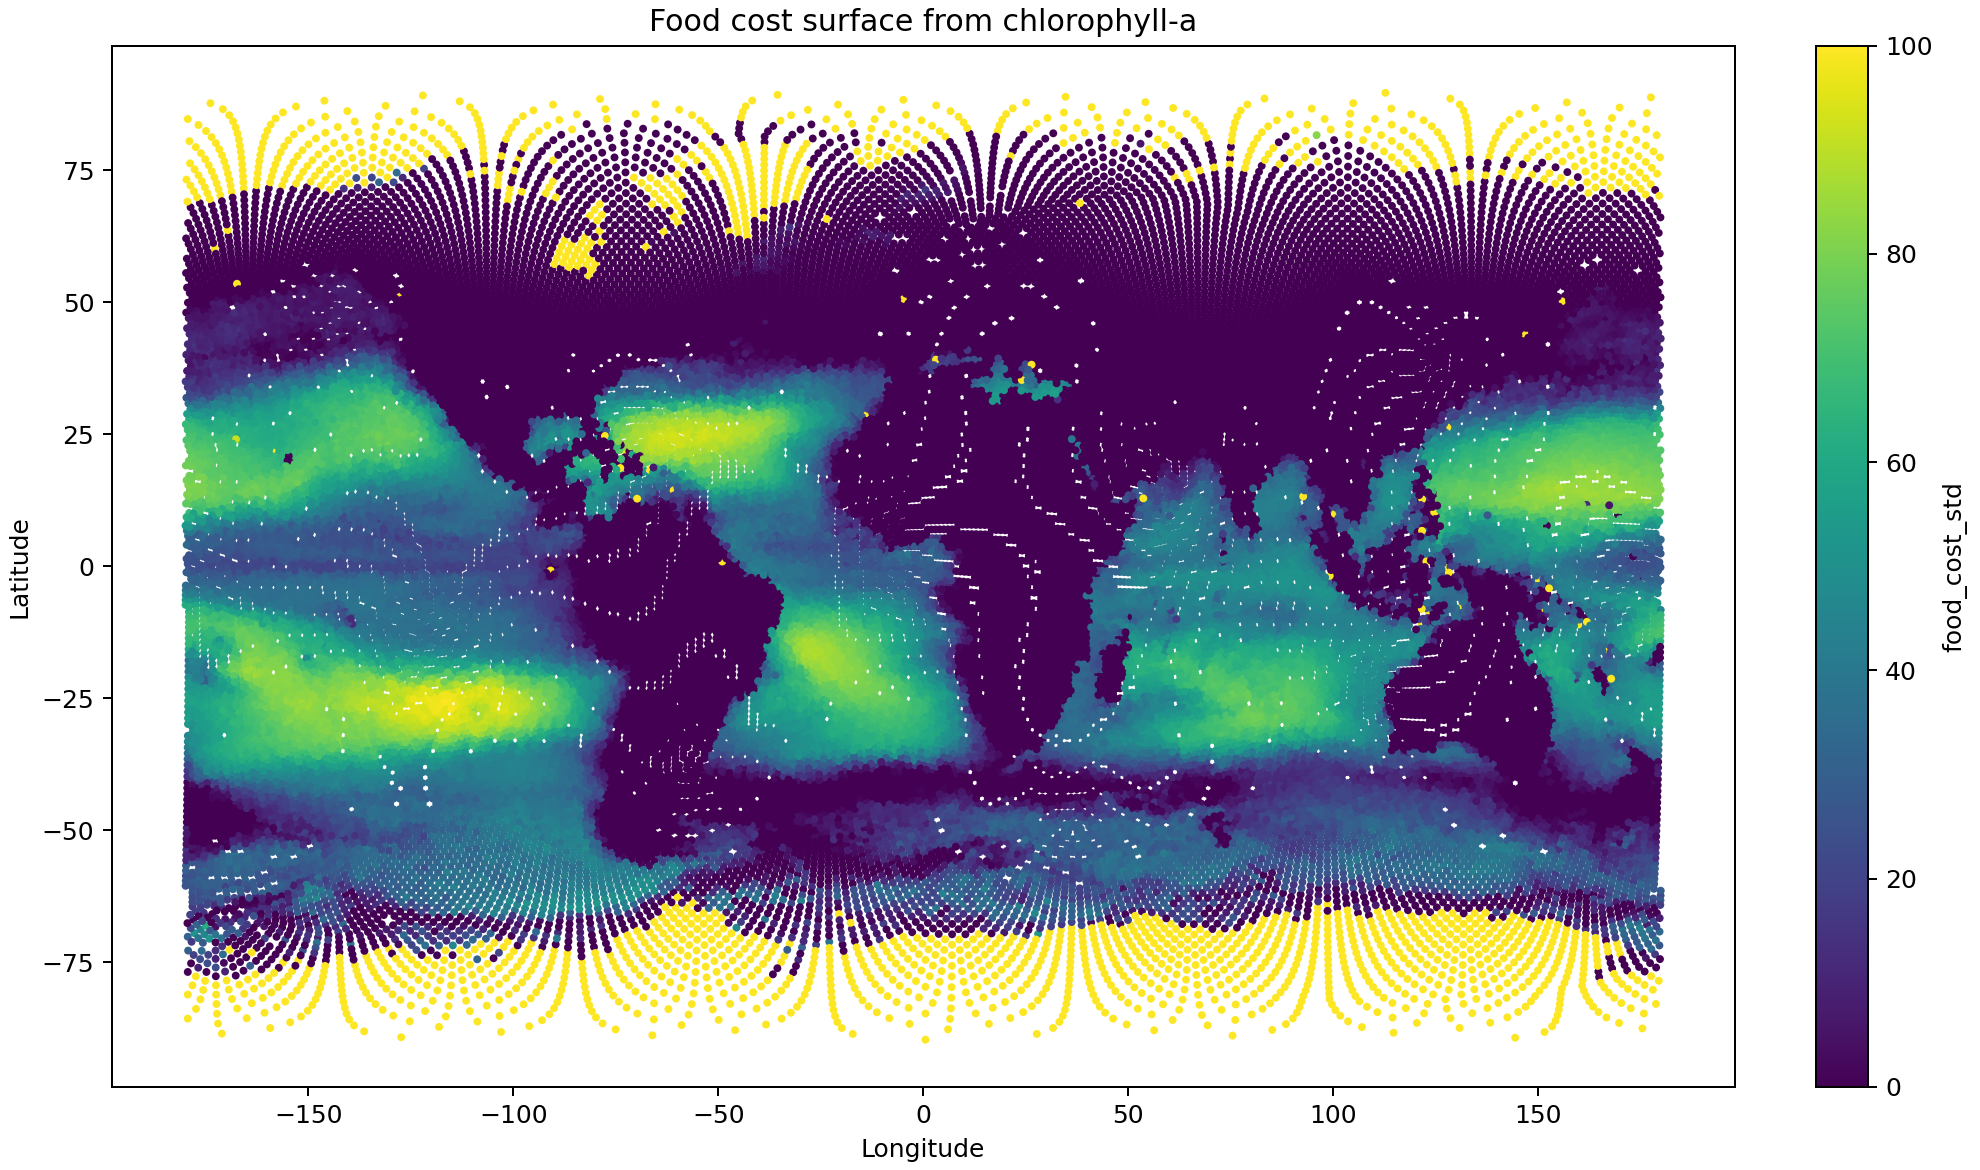
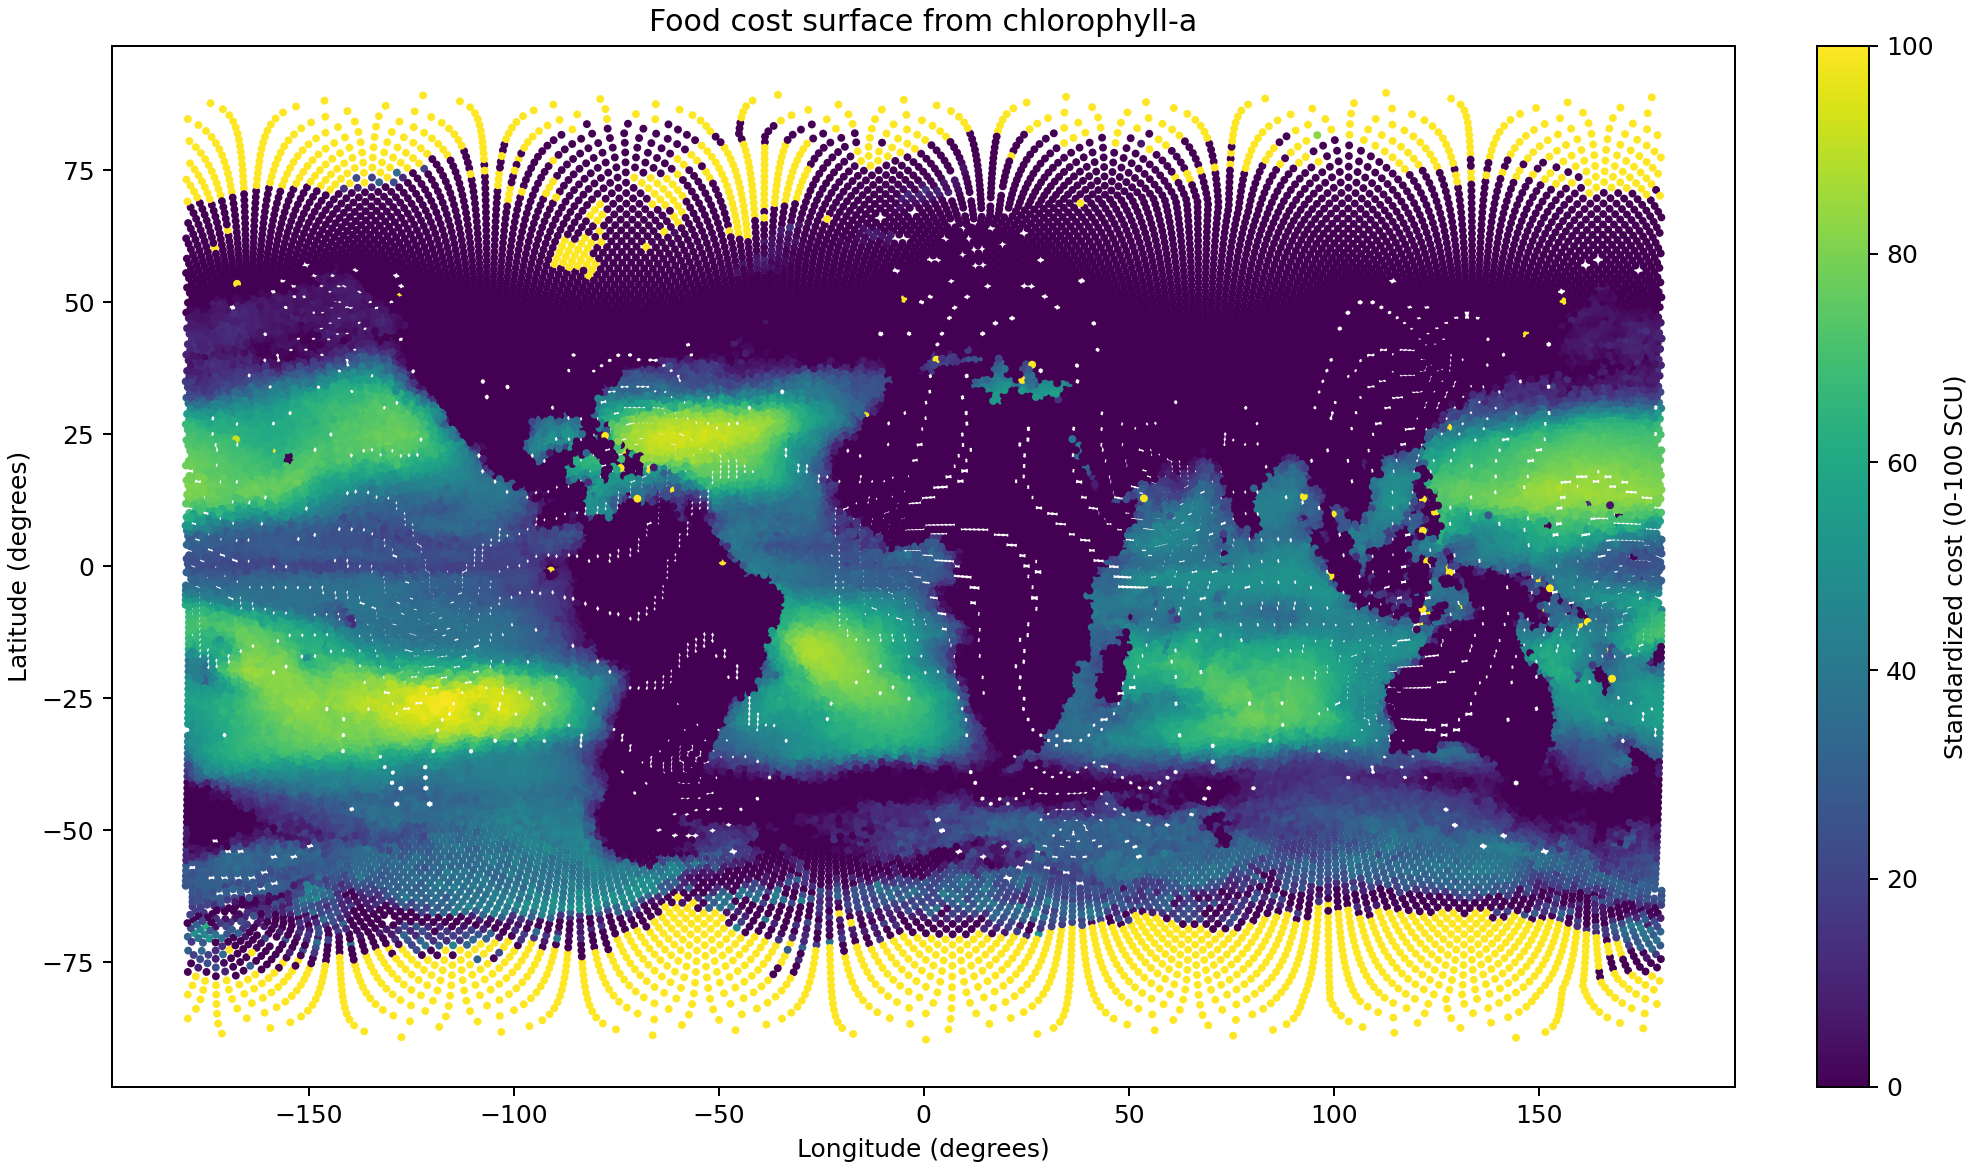
Refine component maps with explicit scales

diff --git a/src/scripts/11_compute_h3_cost_components.py b/src/scripts/11_compute_h3_cost_components.py
@@ -89,58 +89,37 @@ def compute_food_cost(source_chla: pd.Series, floor: float | None = None) -> pd.
     return pd.Series(food_cost, index=source_chla.index)
 
 
-def draw_component_map(df: pd.DataFrame, value_col: str, output_path: Path, title: str, cmap: str = "viridis") -> None:
+def draw_component_map(
+    df: pd.DataFrame,
+    value_col: str,
+    output_path: Path,
+    title: str,
+    colorbar_label: str,
+    cmap: str = "viridis",
+) -> None:
     fig, ax = plt.subplots(figsize=(11, 6.5), constrained_layout=True)
     sc = ax.scatter(df["lon"], df["lat"], c=df[value_col], s=10, cmap=cmap, linewidths=0)
     ax.set_title(title)
-    ax.set_xlabel("Longitude")
-    ax.set_ylabel("Latitude")
+    ax.set_xlabel("Longitude (degrees)")
+    ax.set_ylabel("Latitude (degrees)")
     cbar = fig.colorbar(sc, ax=ax)
-    cbar.set_label(value_col)
+    cbar.set_label(colorbar_label)
     fig.savefig(output_path, dpi=180)
     plt.close(fig)
 
 
-def compute_northward_cumulative_distance(edge_df: pd.DataFrame) -> pd.Series:
-    """Approximate cumulative northward distance by greedily following the most northward outgoing edge.
+def select_northward_edge_distance(edge_df: pd.DataFrame) -> pd.Series:
+    """For each source cell, choose the outgoing edge whose bearing is closest to north.
 
-    For each source cell, choose the outgoing edge with the largest positive latitude gain.
-    Then accumulate northward distance until no further northward move exists.
-    This is a diagnostic map, not the routing model itself.
+    This gives a real edge-distance quantity that is directionally aligned with the
+    diagnostic northward maps for wind.
     """
-    edges = edge_df[["source_h3", "target_h3", "source_lat", "target_lat", "edge_distance_km"]].copy()
-    edges["lat_gain"] = edges["target_lat"] - edges["source_lat"]
-    north_edges = edges[edges["lat_gain"] > 0].copy()
-    north_edges = north_edges.sort_values(["source_h3", "lat_gain", "edge_distance_km"], ascending=[True, False, True])
-    best_north = north_edges.drop_duplicates(subset=["source_h3"], keep="first")
-
-    next_map = dict(zip(best_north["source_h3"], best_north["target_h3"]))
-    dist_map = dict(zip(best_north["source_h3"], best_north["edge_distance_km"]))
-    lat_map = edge_df.groupby("source_h3")["source_lat"].first().to_dict()
-
-    memo: dict[str, float] = {}
-    visiting: set[str] = set()
-
-    def total_distance(cell: str) -> float:
-        if cell in memo:
-            return memo[cell]
-        if cell in visiting:
-            return 0.0
-        visiting.add(cell)
-        if cell not in next_map:
-            value = 0.0
-        else:
-            nxt = next_map[cell]
-            if lat_map.get(nxt, -np.inf) <= lat_map.get(cell, np.inf):
-                value = 0.0
-            else:
-                value = float(dist_map[cell]) + total_distance(nxt)
-        visiting.remove(cell)
-        memo[cell] = value
-        return value
-
-    values = {cell: total_distance(cell) for cell in lat_map}
-    return pd.Series(values)
+    edges = edge_df[["source_h3", "edge_bearing_deg", "edge_distance_km"]].copy()
+    circular_distance_to_north = np.abs(((edges["edge_bearing_deg"] + 180.0) % 360.0) - 180.0)
+    edges["north_offset_deg"] = circular_distance_to_north
+    edges = edges.sort_values(["source_h3", "north_offset_deg", "edge_distance_km"], ascending=[True, True, True])
+    best_north = edges.drop_duplicates(subset=["source_h3"], keep="first")
+    return pd.Series(best_north["edge_distance_km"].to_numpy(), index=best_north["source_h3"].to_numpy())
 
 
 def main() -> None:
@@ -228,9 +207,9 @@ def main() -> None:
     env_map = env[["h3_cell", "lon", "lat", "u10", "v10", "chlor_a"]].copy()
     env_map["parallel_wind_cost_northward_raw"] = northward_parallel_raw
     env_map["crosswind_cost_northward_raw"] = northward_crosswind_raw
-    northward_cumulative_distance = compute_northward_cumulative_distance(out)
+    northward_edge_distance = select_northward_edge_distance(out)
     env_map = env_map.merge(
-        northward_cumulative_distance.rename("northward_cumulative_distance_km"),
+        northward_edge_distance.rename("northward_edge_distance_km"),
         left_on="h3_cell",
         right_index=True,
         how="left",
@@ -238,13 +217,37 @@ def main() -> None:
     env_map["food_cost_raw"] = compute_food_cost(env_map["chlor_a"])
     env_map["parallel_wind_cost_northward_std"] = standardize_to_100(env_map["parallel_wind_cost_northward_raw"])
     env_map["crosswind_cost_northward_std"] = standardize_to_100(env_map["crosswind_cost_northward_raw"])
-    env_map["distance_cost_std"] = standardize_to_100(env_map["northward_cumulative_distance_km"].fillna(0.0))
+    env_map["distance_cost_std"] = standardize_to_100(env_map["northward_edge_distance_km"].fillna(0.0))
     env_map["food_cost_std"] = standardize_to_100(env_map["food_cost_raw"])
 
-    draw_component_map(env_map, "parallel_wind_cost_northward_std", MAP_WIND_PATH, "Parallel wind cost surface for straight northward flight")
-    draw_component_map(env_map, "crosswind_cost_northward_std", MAP_CROSSWIND_PATH, "Crosswind cost surface for straight northward flight")
-    draw_component_map(env_map, "distance_cost_std", MAP_DISTANCE_PATH, "Northward cumulative distance surface")
-    draw_component_map(env_map, "food_cost_std", MAP_FOOD_PATH, "Food cost surface from chlorophyll-a")
+    draw_component_map(
+        env_map,
+        "parallel_wind_cost_northward_std",
+        MAP_WIND_PATH,
+        "Parallel wind cost surface for straight northward flight",
+        "Standardized cost (0-100 SCU)",
+    )
+    draw_component_map(
+        env_map,
+        "crosswind_cost_northward_std",
+        MAP_CROSSWIND_PATH,
+        "Crosswind cost surface for straight northward flight",
+        "Standardized cost (0-100 SCU)",
+    )
+    draw_component_map(
+        env_map,
+        "distance_cost_std",
+        MAP_DISTANCE_PATH,
+        "Distance cost surface from outgoing edge closest to north",
+        "Standardized cost (0-100 SCU), based on edge distance in km",
+    )
+    draw_component_map(
+        env_map,
+        "food_cost_std",
+        MAP_FOOD_PATH,
+        "Food cost surface from chlorophyll-a",
+        "Standardized cost (0-100 SCU)",
+    )
 
     legacy_ref = out["legacy_constant_distance_reference"].iloc[0]
     zero_chla_count = int((env["chlor_a"] <= 0).sum())
@@ -282,7 +285,7 @@ Audit values:
 - standardize each component with the agreed P99-based scaling philosophy
 - additionally produce four cell-level component maps for transparency
 - for the two wind component maps, assume a bird flying in a straight northward direction everywhere
-- for the distance map, construct a diagnostic northward cumulative-distance surface by greedily following the most northward outgoing edge from each cell until no further northward move exists
+- for the distance map, assign to each cell the true distance of the outgoing edge whose bearing is closest to north
 
 ## Key formulas used
 - movement direction comes from the edge bearing for the edge-level table
@@ -290,7 +293,7 @@ Audit values:
 - raw parallel wind cost = distance from `P99(windsupport)`
 - raw crosswind cost = magnitude of the wind component perpendicular to movement
 - raw distance cost = true H3 edge distance in km for the edge table
-- diagnostic distance map = cumulative northward path length obtained by repeatedly following the outgoing edge with the largest positive latitude gain
+- diagnostic distance map = true distance of the outgoing edge whose bearing is closest to north, one value per source cell
 - raw food cost = `|log(chla) + 1|` after capping high-productivity cells and flooring non-positive chlorophyll values for numerical stability
 - standardized component cost = `100 * raw_component / P99(raw_component)`
 
@@ -331,11 +334,11 @@ The four maps are also useful because they separate two different views of the m
 - cell-level component surfaces used for intuitive inspection
 
 For the wind maps, the northward-flight assumption is only for visualizing the directional wind components as a global surface. The real graph still uses each actual edge bearing.
-For the distance map, the northward cumulative surface is also diagnostic rather than part of the routing graph itself. It is meant to make the map set conceptually parallel, not to replace the true edge-distance component used in the model.
+For the distance map, each cell is assigned the true distance of its outgoing edge closest to north. This is also diagnostic rather than part of the routing graph itself, but it is a real edge quantity rather than an artificial cumulative construction.
 
 ## Points to watch
 - the distance component in the routing model still represents true H3 edge length, which is an intentional refinement relative to the legacy constant-per-step distance term
-- the mapped northward cumulative distance surface is a separate diagnostic layer for interpretability
+- the mapped northward distance surface is a separate diagnostic layer for interpretability, based on a real outgoing northward edge per cell
 - the legacy constant distance reference extracted from the standardized wind term is **{legacy_ref:.3f}**, which provides a direct bridge back to the earlier formulation
 - the visual wind maps are diagnostic surfaces, not replacements for the directional edge-level calculations
 

diff --git a/results/reports/11_compute-h3-cost-components.md b/results/reports/11_compute-h3-cost-components.md
@@ -31,7 +31,7 @@ Audit values:
 - standardize each component with the agreed P99-based scaling philosophy
 - additionally produce four cell-level component maps for transparency
 - for the two wind component maps, assume a bird flying in a straight northward direction everywhere
-- for the distance map, construct a diagnostic northward cumulative-distance surface by greedily following the most northward outgoing edge from each cell until no further northward move exists
+- for the distance map, assign to each cell the true distance of the outgoing edge whose bearing is closest to north
 
 ## Key formulas used
 - movement direction comes from the edge bearing for the edge-level table
@@ -39,7 +39,7 @@ Audit values:
 - raw parallel wind cost = distance from `P99(windsupport)`
 - raw crosswind cost = magnitude of the wind component perpendicular to movement
 - raw distance cost = true H3 edge distance in km for the edge table
-- diagnostic distance map = cumulative northward path length obtained by repeatedly following the outgoing edge with the largest positive latitude gain
+- diagnostic distance map = true distance of the outgoing edge whose bearing is closest to north, one value per source cell
 - raw food cost = `|log(chla) + 1|` after capping high-productivity cells and flooring non-positive chlorophyll values for numerical stability
 - standardized component cost = `100 * raw_component / P99(raw_component)`
 
@@ -80,11 +80,11 @@ The four maps are also useful because they separate two different views of the m
 - cell-level component surfaces used for intuitive inspection
 
 For the wind maps, the northward-flight assumption is only for visualizing the directional wind components as a global surface. The real graph still uses each actual edge bearing.
-For the distance map, the northward cumulative surface is also diagnostic rather than part of the routing graph itself. It is meant to make the map set conceptually parallel, not to replace the true edge-distance component used in the model.
+For the distance map, each cell is assigned the true distance of its outgoing edge closest to north. This is also diagnostic rather than part of the routing graph itself, but it is a real edge quantity rather than an artificial cumulative construction.
 
 ## Points to watch
 - the distance component in the routing model still represents true H3 edge length, which is an intentional refinement relative to the legacy constant-per-step distance term
-- the mapped northward cumulative distance surface is a separate diagnostic layer for interpretability
+- the mapped northward distance surface is a separate diagnostic layer for interpretability, based on a real outgoing northward edge per cell
 - the legacy constant distance reference extracted from the standardized wind term is **49.999**, which provides a direct bridge back to the earlier formulation
 - the visual wind maps are diagnostic surfaces, not replacements for the directional edge-level calculations
 
